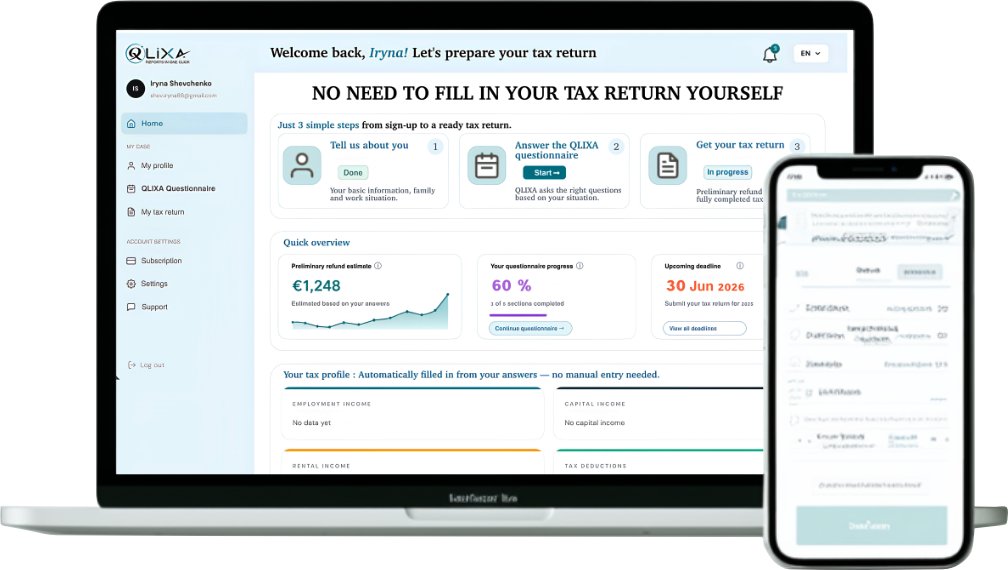
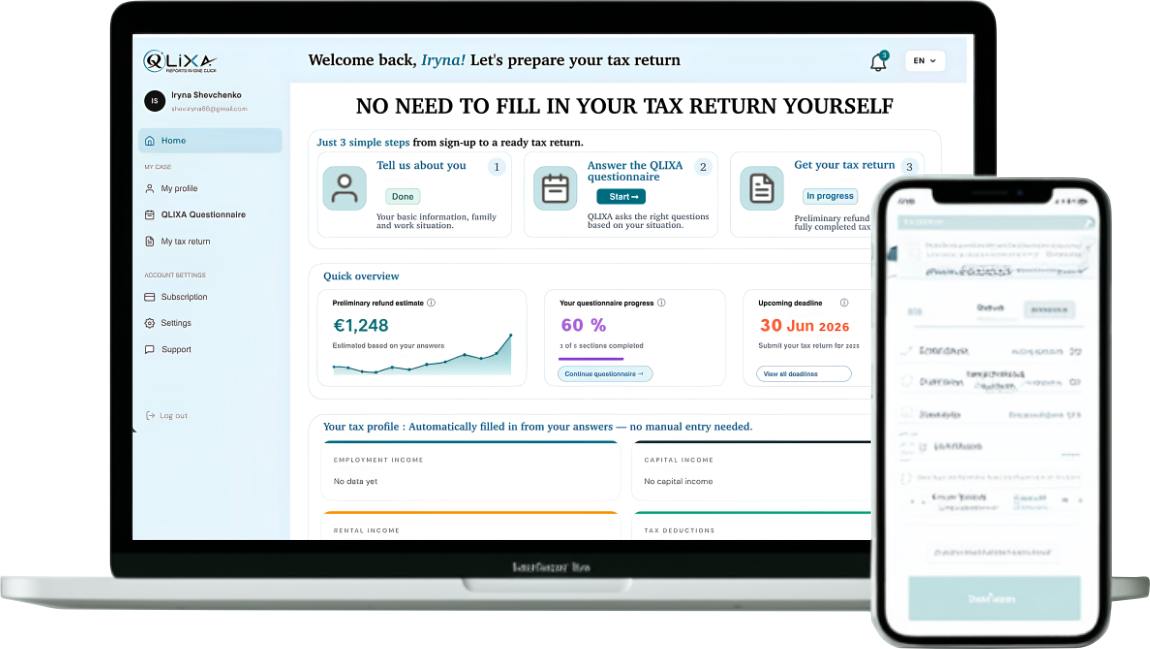
hero

diff --git a/src/app/page.tsx b/src/app/page.tsx
@@ -1059,16 +1059,25 @@ export default function HomePage() {
           positioned div (not shared via .map()), so each can be nudged
           independently just by editing that one div's left/top. */}
       <section style={{ background: '#FFFFFF', padding: '0 clamp(20px,6vw,80px)', boxSizing: 'border-box' as const }}>
-        {/* ▼▼▼ HERO_CONTENT_CONTAINER — everything belonging to the Hero
-            section lives inside this ONE div. ▼▼▼ */}
+        {/* ▼▼▼ HERO_CROP_WRAPPER — this OUTER box controls Hero's visible
+            height. Change ONLY this wrapper's aspect-ratio to trim empty
+            space after the trust line — it crops (overflow:hidden), it does
+            NOT rescale or distort anything, because the INNER box below
+            keeps its ORIGINAL 1200/648 ratio untouched. ▼▼▼ */}
         <div style={{ maxWidth: 1200, margin: '0 auto', aspectRatio: '1200 / 648', position: 'relative' as const, overflow: 'hidden' }}>
+        {/* ▼▼▼ HERO_CONTENT_CONTAINER — everything belonging to the Hero
+            section lives inside this ONE div. Its aspect-ratio (1200/648)
+            must stay EXACTLY as is — every child's top/left % below is
+            calibrated against this number. ▼▼▼ */}
+        <div style={{ position: 'absolute' as const, top: 0, left: 0, width: '100%', aspectRatio: '1200 / 648' }}>
 
+          
           {/* LAPTOP_IMAGE */}
           {/* eslint-disable-next-line @next/next/no-img-element */}
           <img
             src="/hero/laptop_hero_only.png"
             alt=""
-            style={{ position: 'absolute' as const, left: '46.867%', top: '39.766%', width: '53.133%', height: '57.372%', objectFit: 'contain' as const, objectPosition: 'left top' as const }}
+            style={{ position: 'absolute' as const, left: '50%', top: '32.766%', width: '70%', height: '50%', objectFit: 'contain' as const, objectPosition: 'left top' as const }}
           />
 
           {/* HEADLINE_LINE1 — "3 STEPS" */}
@@ -1087,6 +1096,14 @@ export default function HomePage() {
             NO NEED TO FILL IN YOUR TAX RETURN YOURSELF
           </div>
 
+          {/* ▼▼▼ CIRCLES_AND_STEPS_GROUP — the dashed connector line + all 3
+              step icon-groups (circle+icon+number) + all step titles and
+              descriptions. To move the WHOLE group together, edit ONLY this
+              wrapper's left/top (it currently matches inset:0, i.e. no offset
+              — children keep their existing % values unchanged, computed
+              against this wrapper instead of the outer container, which is
+              the same size, so nothing visually shifts). ▼▼▼ */}
+          <div style={{ position: 'absolute' as const, left: 0, top: -20, width: '100%', height: '100%' }}>
           {/* DASHED_LINE_1_2_3 — connector between step 1,2 and step 3 circles */}
           <div style={{ position: 'absolute' as const, left: '8.575%', top: '43.301%', width: '33.258%', height: 0, borderTop: '2px dashed #BFDFDF' }} />
           
@@ -1178,6 +1195,9 @@ export default function HomePage() {
             <div>completed tax return, ready</div>
             <div>to submit via FinanzOnline.</div>
           </div>
+          </div>
+          {/* ▲▲▲ END CIRCLES_AND_STEPS_GROUP ▲▲▲ */}
+
 
           {/* BUTTON — "Calculate my refund →". aspect-ratio matches
               hero_button.png's REAL file dimensions (457×77px) exactly, so
@@ -1185,7 +1205,7 @@ export default function HomePage() {
           <Link
             href={t.cards[0].href}
             style={{
-              position: 'absolute' as const, left: '0%', top: '77%', width: '27.867%', aspectRatio: '700 / 77',
+              position: 'absolute' as const, left: '0%', top: '74%', width: '27.867%', aspectRatio: '700 / 77',
               display: 'flex', alignItems: 'center', justifyContent: 'center' as const,
               backgroundImage: 'url(/hero/hero_button.png)', backgroundSize: '100% 100%', backgroundRepeat: 'no-repeat' as const,
               fontFamily: 'Arial, sans-serif', fontSize: 'clamp(9px,1.17vw,14px)', fontWeight: 700, color: '#fff', textDecoration: 'none',
@@ -1196,12 +1216,14 @@ export default function HomePage() {
 
           {/* TRUST_LINE — "Designed specifically for 🇦🇹 Austria..." — this is
               the LAST element; the container's height ends exactly here. */}
-          <div style={{ position: 'absolute' as const, left: 0, right: 0, top: '95.679%', textAlign: 'center' as const, fontFamily: 'Arial, sans-serif', fontSize: 'clamp(9px,1.42vw,17px)', color: '#404040', whiteSpace: 'nowrap' as const }}>
+          <div style={{ position: 'absolute' as const, left: 0, right: 0, top: '83%', textAlign: 'center' as const, fontFamily: 'Arial, sans-serif', fontSize: 'clamp(9px,1.42vw,17px)', color: '#404040', whiteSpace: 'nowrap' as const }}>
             {t.trust}
           </div>
 
         </div>
         {/* ▲▲▲ END HERO_CONTENT_CONTAINER ▲▲▲ */}
+        </div>
+        {/* ▲▲▲ END HERO_CROP_WRAPPER ▲▲▲ */}
       </section>
       {/* ── END HERO2 ── */}
 

diff --git a/src/app/how-it-works/tax-return/page.tsx b/src/app/how-it-works/tax-return/page.tsx
@@ -1,18 +1,5 @@
-import Link from 'next/link'
+import { redirect } from 'next/navigation'
 
 export default function Page() {
-  return (
-    <main style={{ minHeight: '100vh', background: '#F0F7F8', display: 'flex', alignItems: 'center', justifyContent: 'center', padding: '80px 20px' }}>
-      <div style={{ maxWidth: 600, textAlign: 'center' }}>
-        <div style={{ fontSize: 64, marginBottom: 24 }}>💰</div>
-        <div style={{ display: 'inline-block', padding: '5px 16px', borderRadius: 999, background: 'rgba(3,131,144,0.1)', border: '1px solid rgba(3,131,144,0.25)', fontSize: 11, fontWeight: 700, letterSpacing: '2px', textTransform: 'uppercase', color: '#038390', marginBottom: 20 }}>Як це працює</div>
-        <h1 style={{ fontFamily: 'DM Serif Display, serif', fontSize: 'clamp(32px,5vw,52px)', fontWeight: 400, color: '#1A1A1A', lineHeight: 1.1, letterSpacing: '-1px', marginBottom: 16 }}>Повернення податку</h1>
-        <p style={{ fontSize: 16, color: '#595959', lineHeight: 1.75, marginBottom: 40 }}>Ця сторінка зараз у розробці. Скоро тут з&apos;явиться детальна інформація.</p>
-        <div style={{ display: 'inline-block', padding: '8px 20px', borderRadius: 999, background: 'rgba(3,131,144,0.1)', border: '1px solid rgba(3,131,144,0.2)', fontSize: 12, fontWeight: 600, color: '#038390', marginBottom: 32 }}>Скоро буде</div>
-        <div style={{ marginTop: 8 }}>
-          <Link href="/" style={{ fontSize: 14, fontWeight: 600, color: '#038390', textDecoration: 'none' }}>← Повернутись на головну</Link>
-        </div>
-      </div>
-    </main>
-  )
+  redirect('/for/naymanyy')
 }
